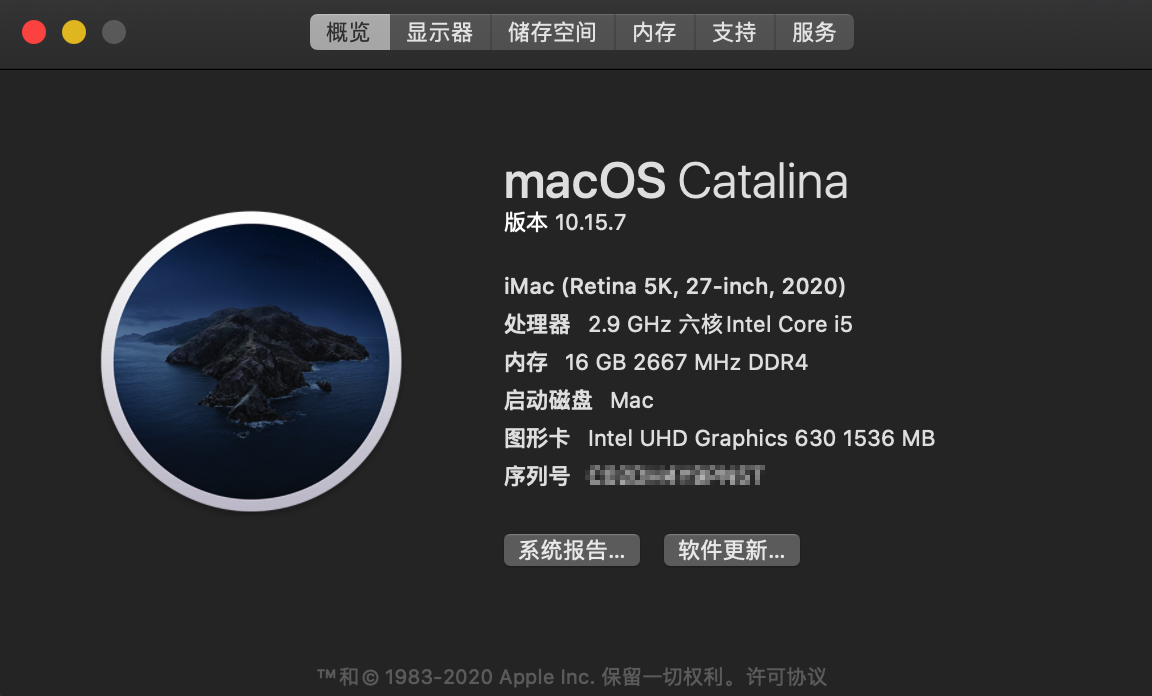
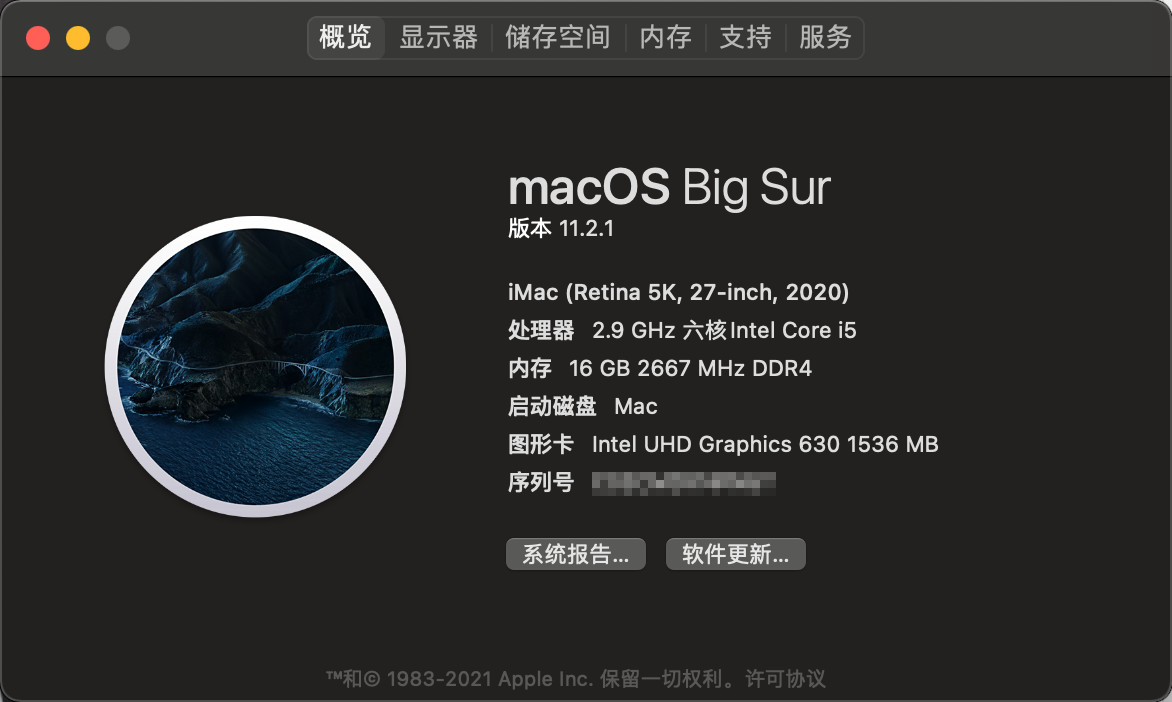
Update OpenCore: 0.6.6

diff --git a/README.md b/README.md
@@ -6,6 +6,11 @@ macOS version: 10.15.7
 
 ##  更新情况
 
+2021.02.19
+
+- 升级 OpenCore: 0.6.6
+- macOS Big Sur 11.2.1
+
 2021.01.08
 
 - 升级 OpenCore: 0.6.5
